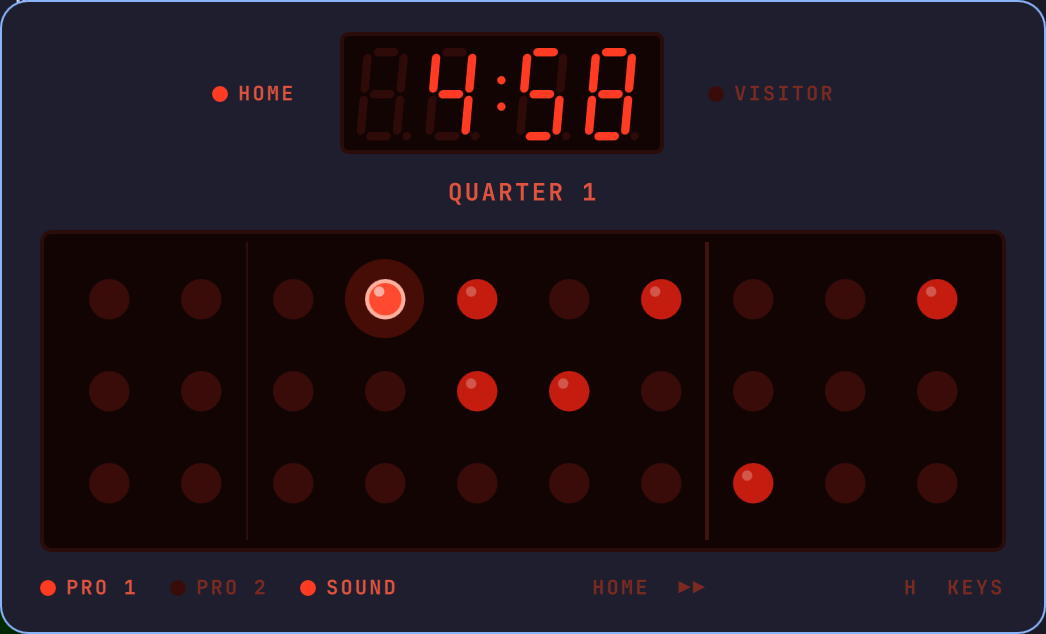
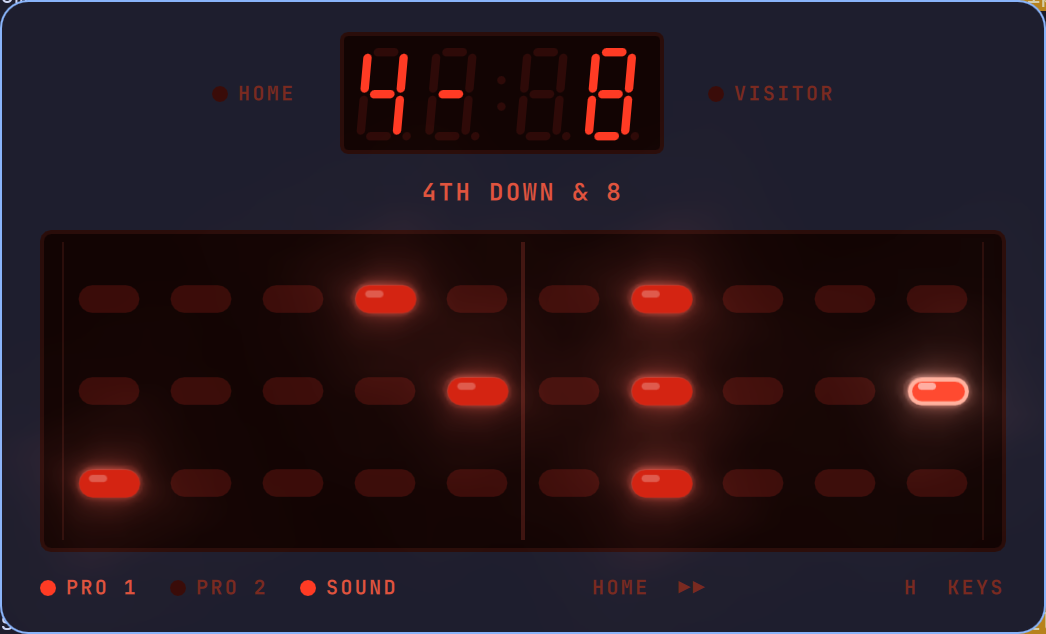
1.0.0: README story, fresh preview

diff --git a/README.md b/README.md
@@ -1,11 +1,33 @@
 # LED Gridiron
 
-A retro handheld LED football game for [Omarchy](https://omarchy.org/). Red blips on a three-lane
-field, a 7-segment scoreboard, and piezo beeps, all running inside the Omarchy shell.
+A pocket-sized tribute to the LED handheld football games of 1978, living in your Omarchy bar.
 
 ![LED Gridiron](preview.png)
 
-You are the bright blip. Dodge the defenders, throw to the blinking receiver, and kick when you
+## Why I built this
+
+In 1978 I had an LED handheld football game, and I played it constantly. It was a little plastic
+case with a strip of red lights for a field. You were the bright one, and everybody else was
+trying to tackle you. The only sound it could make was a beep, and somehow that was all the
+stadium it needed.
+
+I've missed it for a long time. Not enough to hunt down a forty-something-year-old handheld and
+hope it still powers on, but enough that I wanted it one click away while I work. So I rebuilt it
+from memory as an Omarchy plugin.
+
+LED Gridiron sits in your bar as a small football. Click it and the handheld appears in the middle
+of your screen: a three-lane field of glowing red LEDs, a 7-segment scoreboard, and square-wave
+beeps for every step, tackle, catch and touchdown. Dodge with `W` `A` `S` `D`, throw to your
+receiver with `Space` when the lane is open, kick with `E`, and hold `Q` to read the down,
+distance and clock off the scoreboard, just like the old STATUS button. Press `Esc` and it
+gets out of your way mid-drive. It'll be right where you left it when you come back.
+
+It's an original game built in the spirit of those late-'70s handhelds, for a few minutes of
+football between whatever you're supposed to be doing.
+
+## How it plays
+
+You are the bright player. Dodge the defenders, throw to the blinking receiver, and kick when you
 run out of downs. Home runs right, Visitor runs left. One player plays both offenses against the
 computer defense, or two players pass the keyboard on each change of possession.
 
